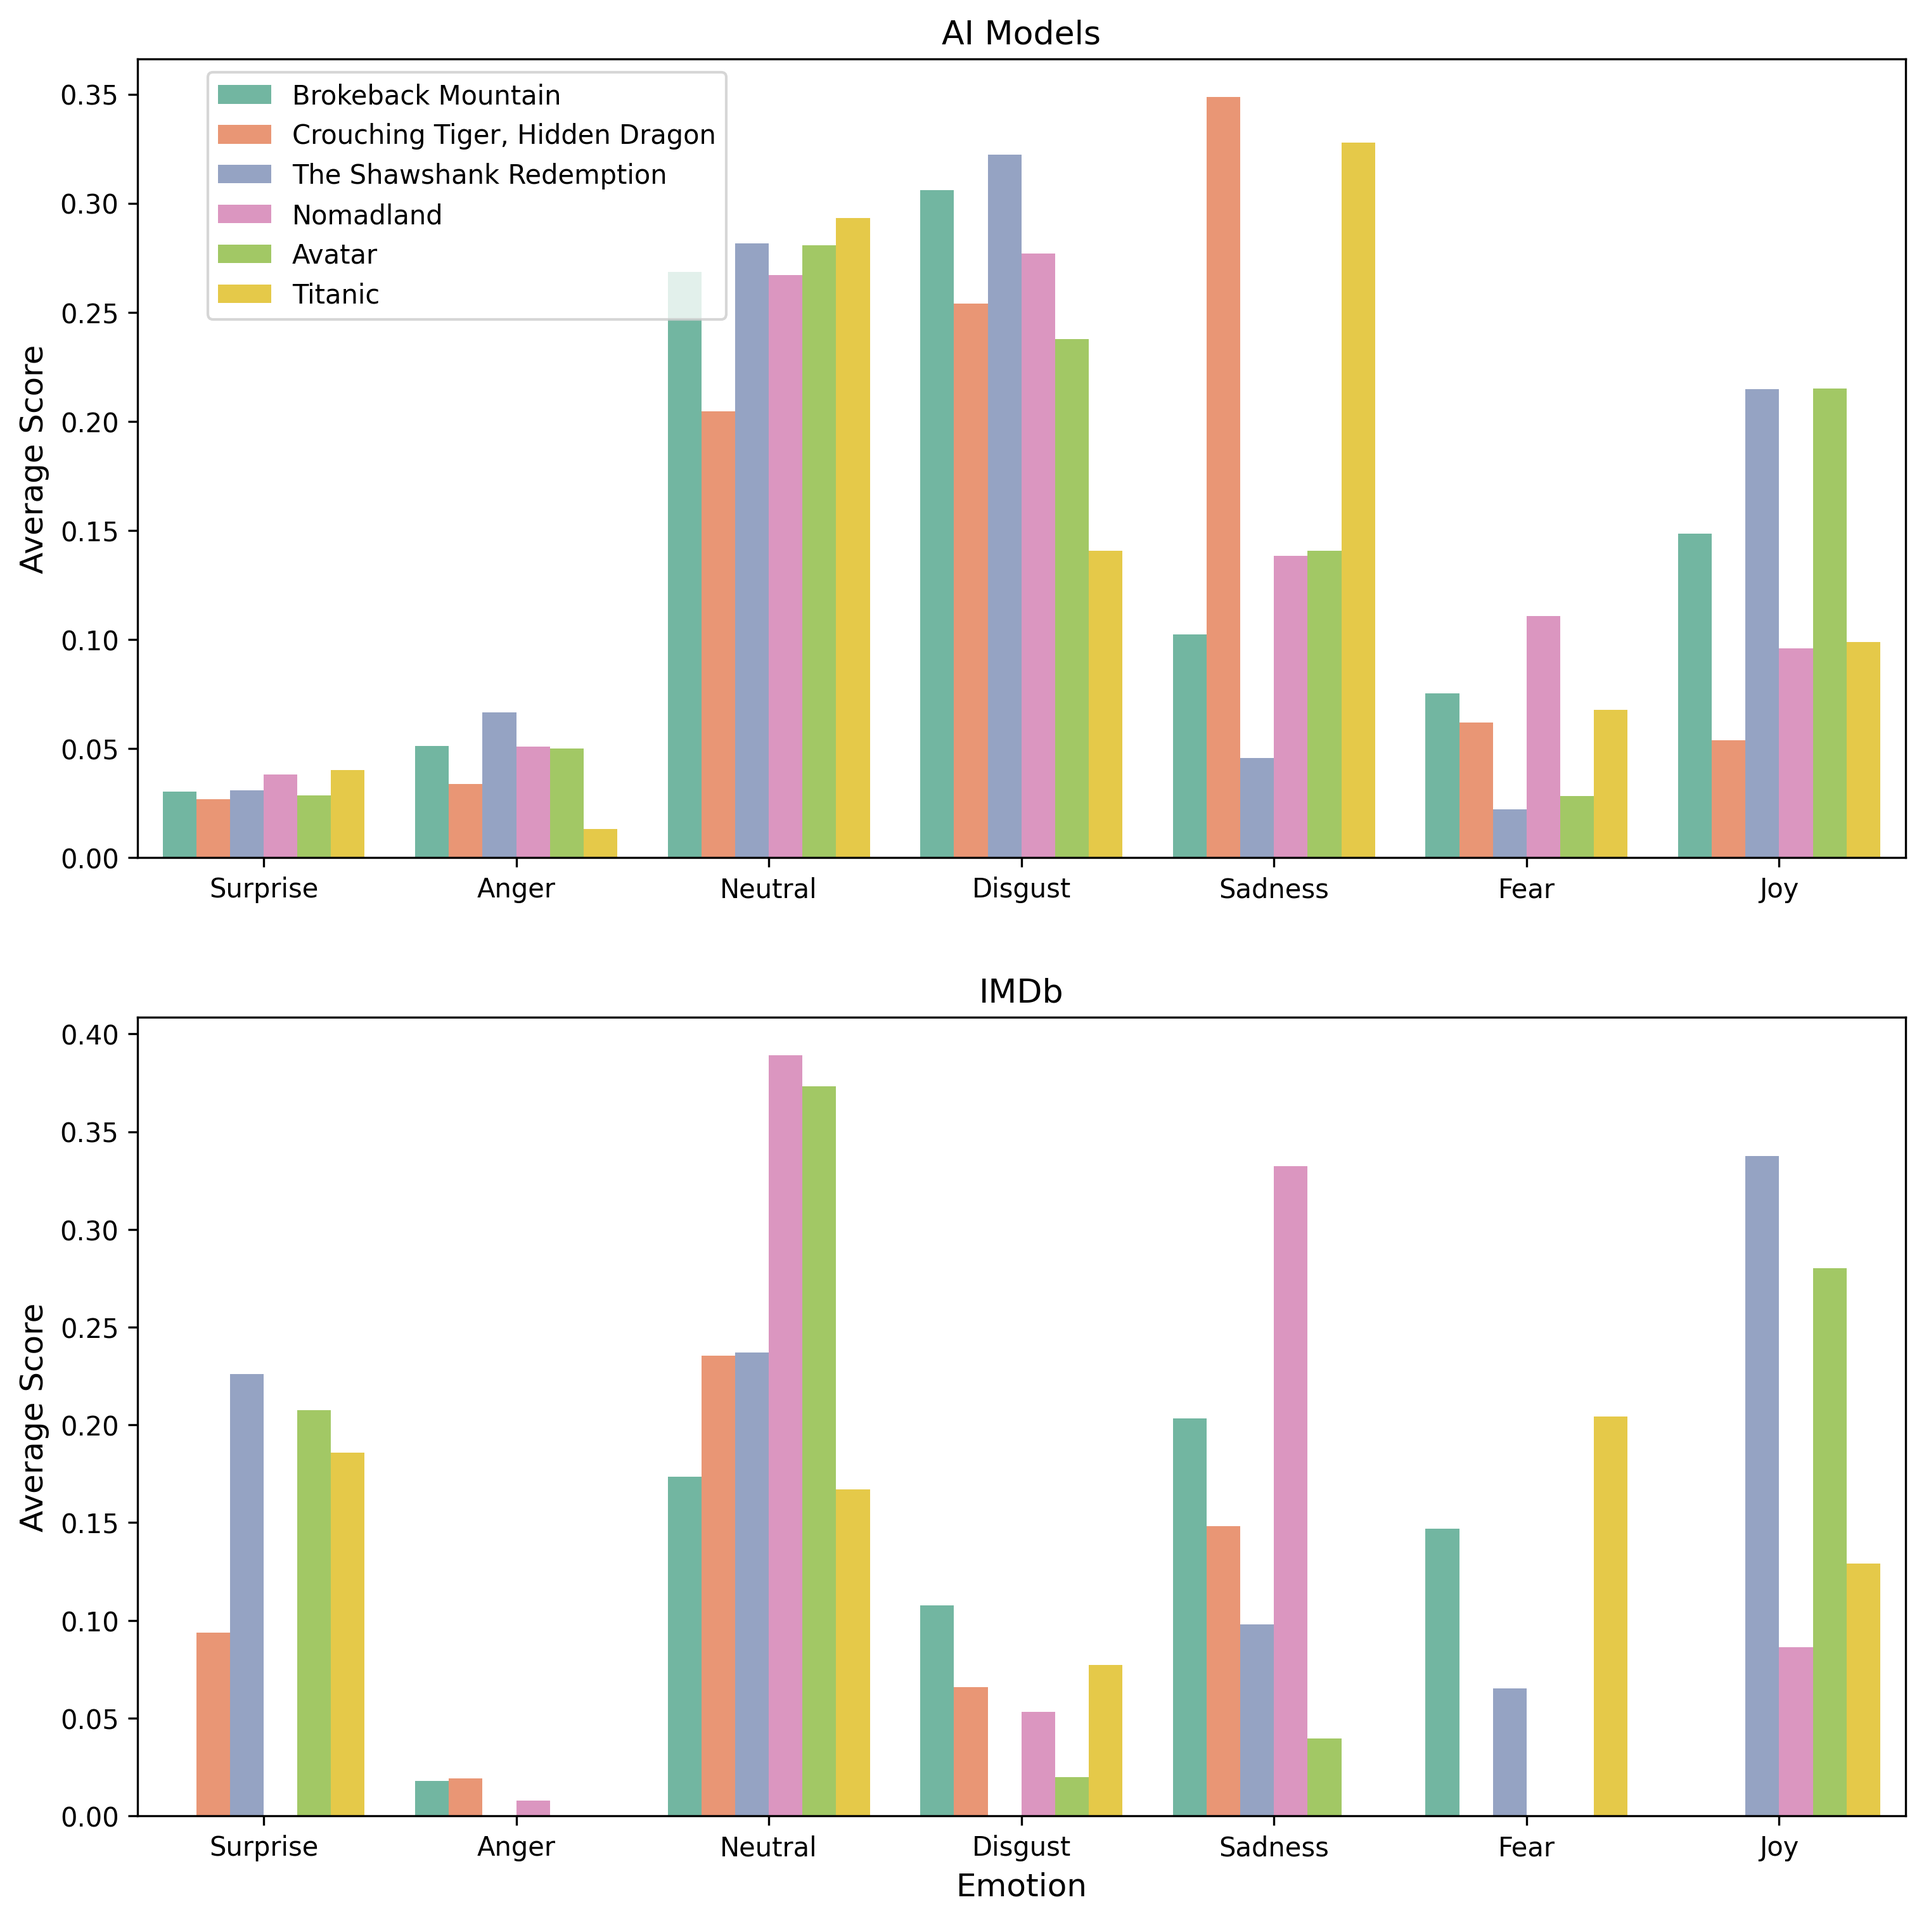
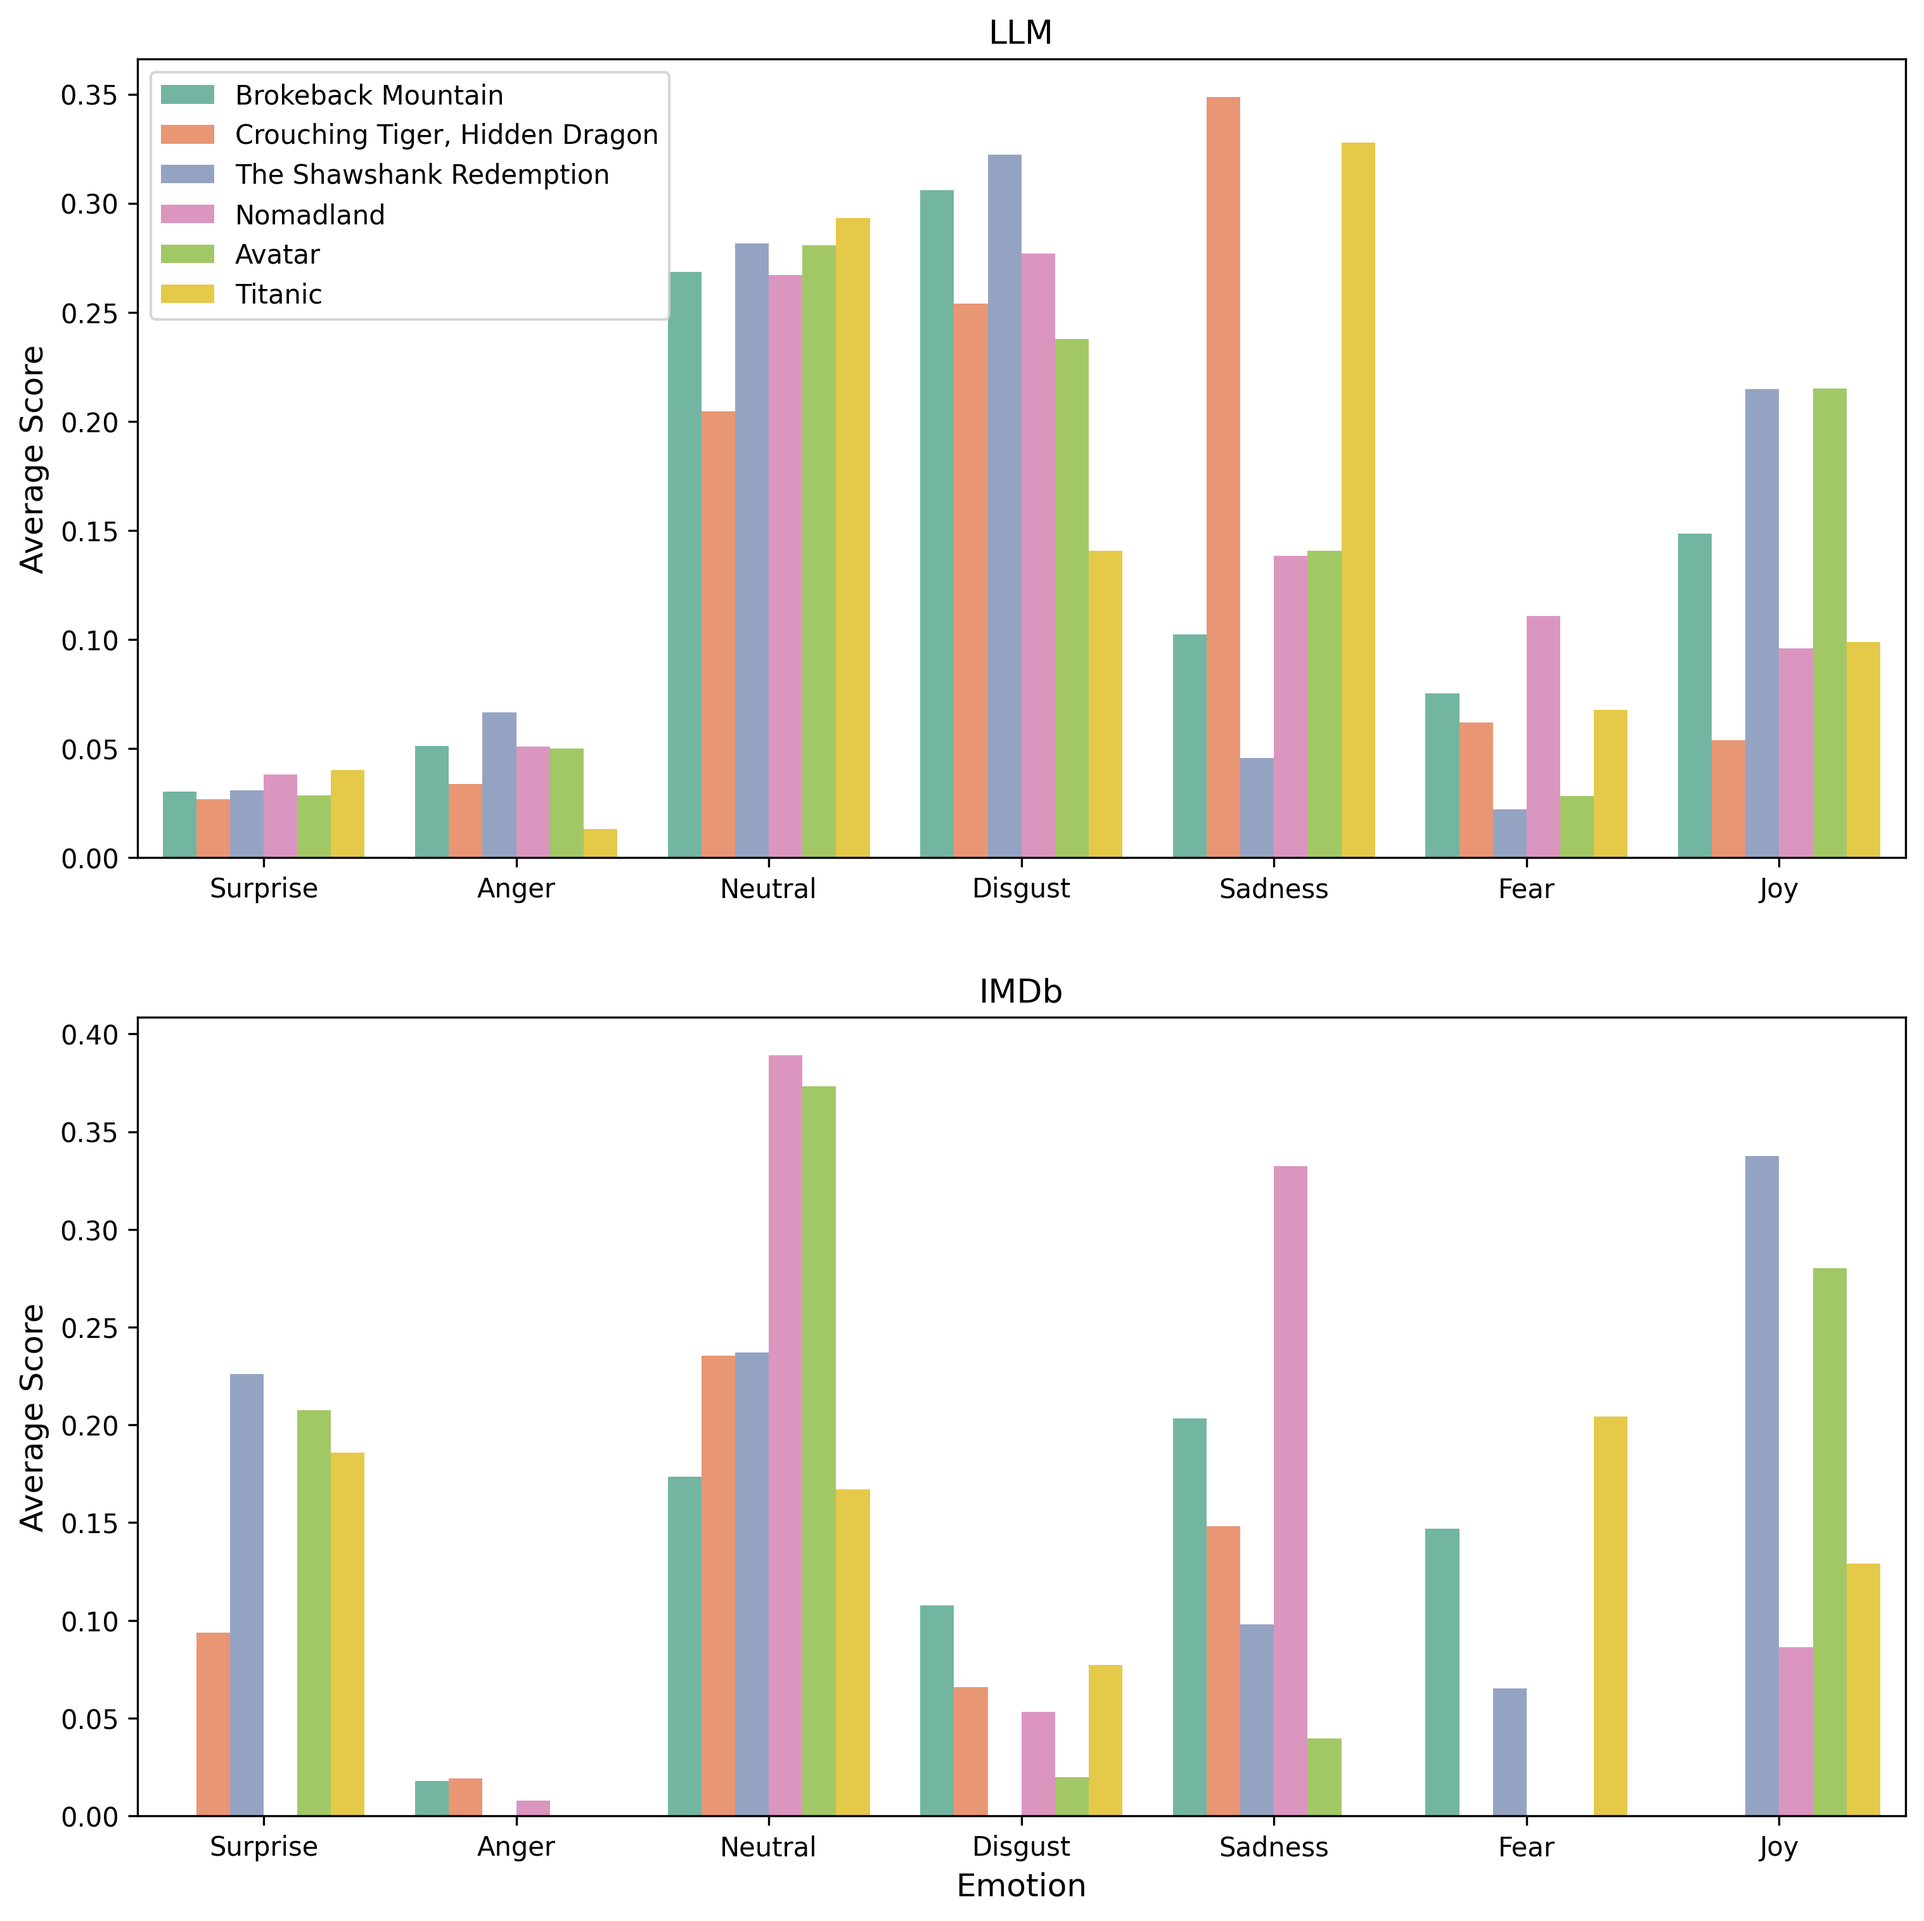
AI -> LLM

Changed region(s): [[0.0619, 0.031, 0.3715, 0.1861], [0.4954, 0.0, 0.5573, 0.031], [0.3406, 0.1241, 0.3715, 0.1861]]

diff --git a/visualization/emotion.py b/visualization/emotion.py
@@ -224,7 +224,7 @@ sns.barplot(data=melted_df, x='Emotion', y='Score', hue='Movie',
 # plt.title('Average Emotion Scores by Movie', fontsize=16)
 axes[0].set_xlabel('')
 axes[0].set_ylabel('Average Score', fontsize=12)
-axes[0].set_title('AI Models', fontsize=12.5)
+axes[0].set_title('LLM', fontsize=12.5)
 axes[0].legend().set_visible(False)
 
 # show the plot
@@ -251,7 +251,7 @@ axes[1].legend().set_visible(False)
 # display shared legend
 handles, labels = axes[1].get_legend_handles_labels()
 fig.legend(handles, labels, loc='upper left',
-           bbox_to_anchor=(0.15, 0.88),
+           bbox_to_anchor=(0.125, 0.88),
            ncol=1)
 
 # show the plot
